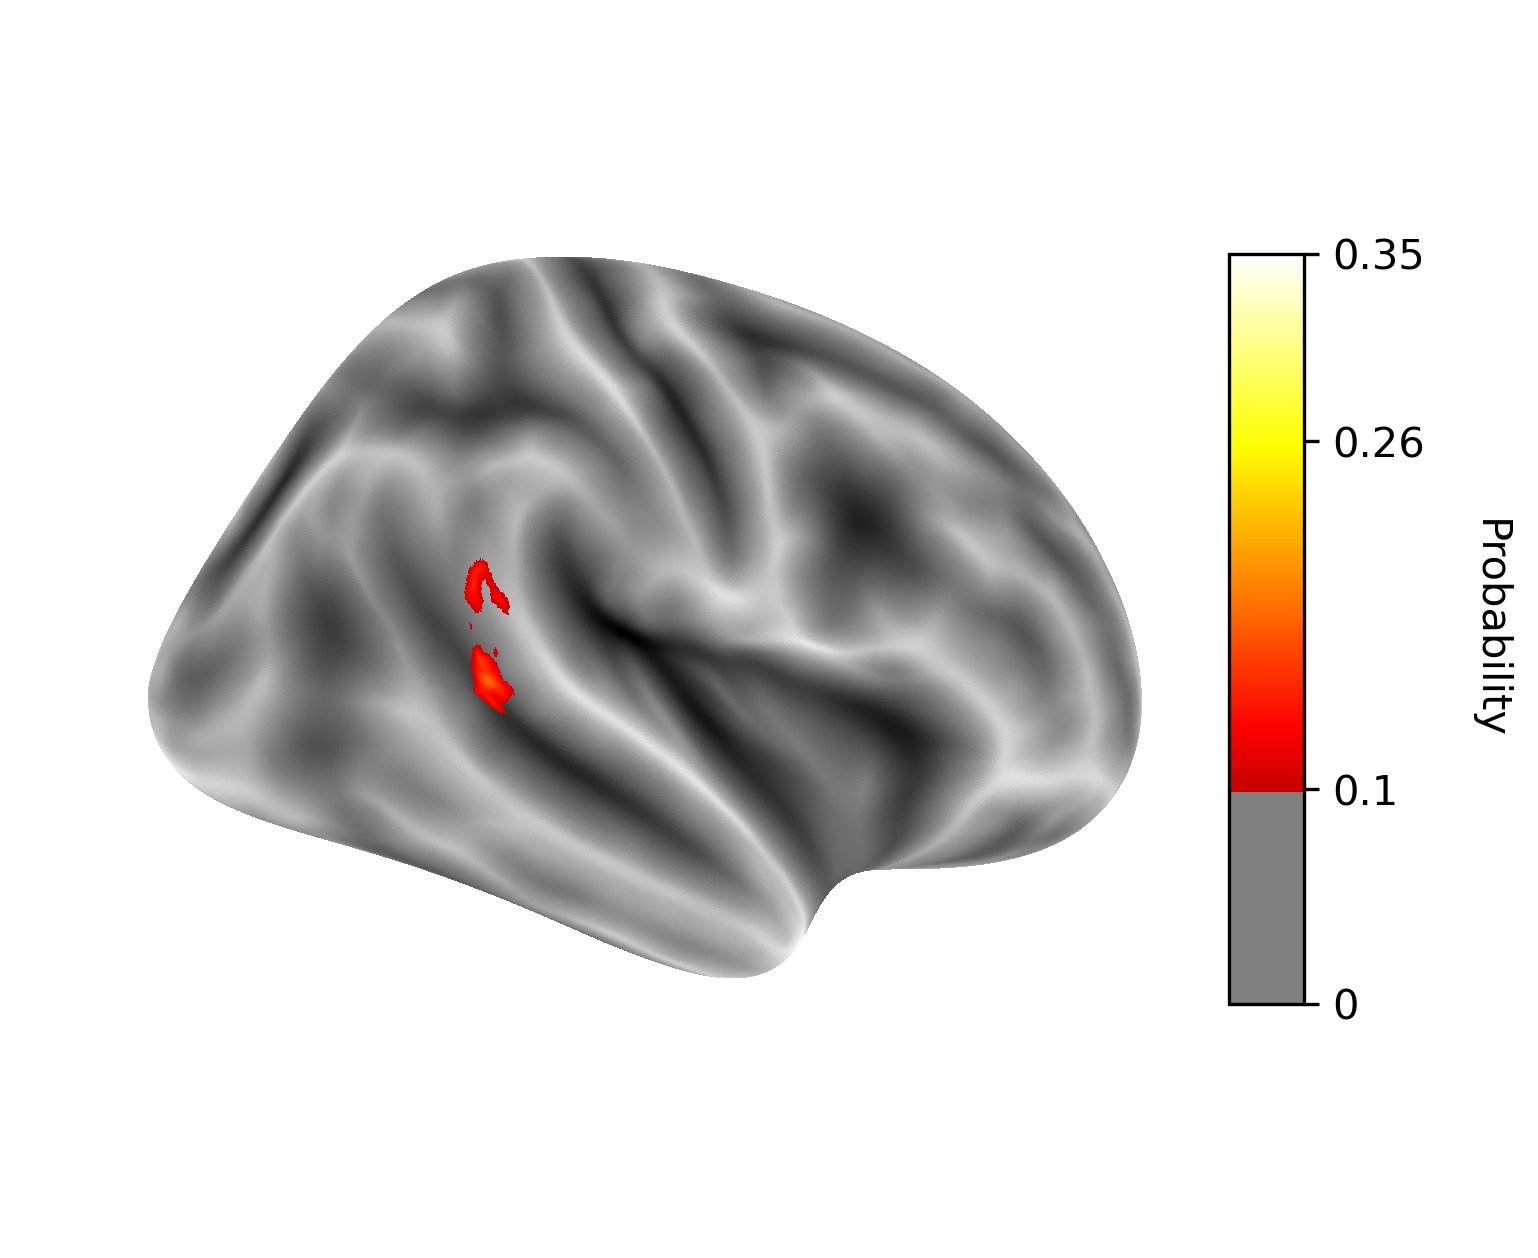
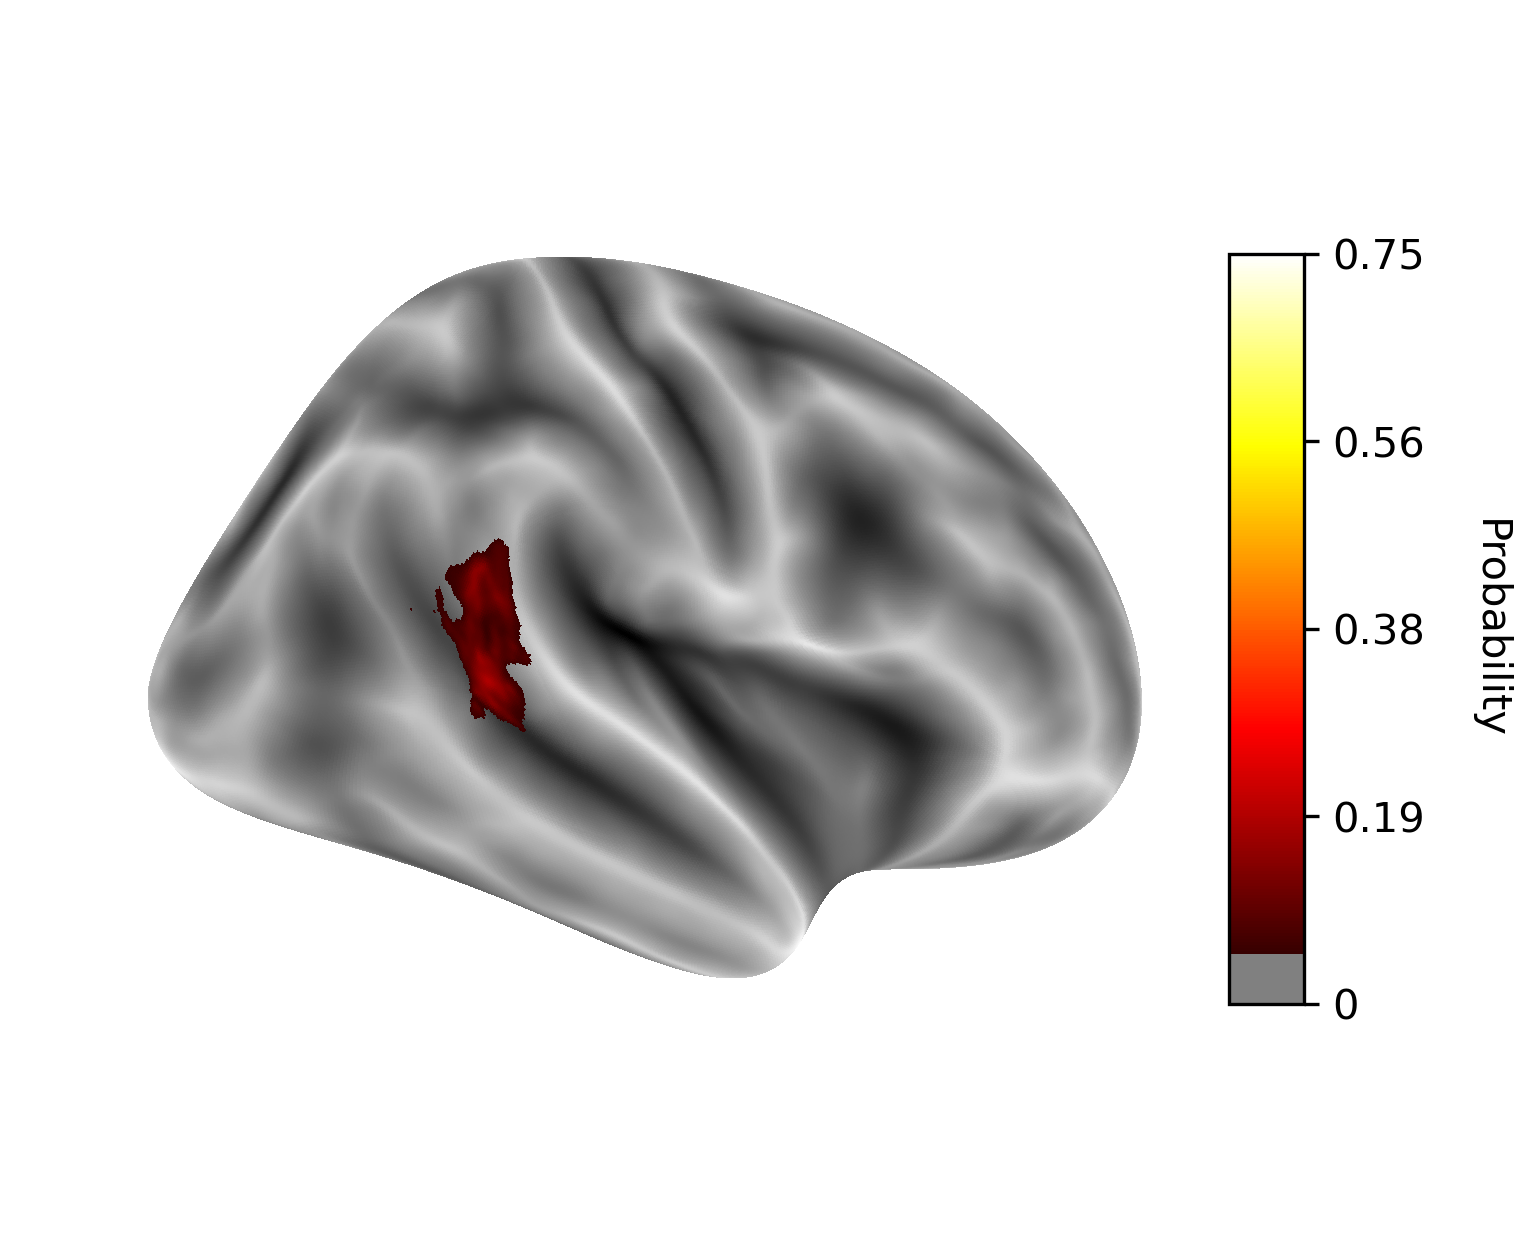
plots

diff --git a/code/group_parcel_probability.py b/code/group_parcel_probability.py
@@ -55,38 +55,40 @@ class GroupParcelProbability:
             mesh_type="inflated",
         )
         
-    def plot_surface(self, img, threshold=0.1, cmap='hot', ylabel='Probability', filename_suffix='surface_right'):
+    def plot_surface(self, img, threshold=0.1, cmap='hot', ylabel='Probability', filename_suffix=''):
         """Plot the image on the right lateral surface"""
         print(f'Creating surface plot for {ylabel.lower()} (right hemisphere)...')
         surf_img, fsaverage_meshes, fsaverage_sulcal = vol2surf(img)  # Ensure img is in the correct format for surface plotting
 
-        # Plot right lateral surface
-        fig = plot_surf_stat_map(
-            stat_map=surf_img,
-            surf_mesh=fsaverage_meshes["inflated"],
-            hemi='right',
-            threshold=threshold,
-            bg_map=fsaverage_sulcal,
-            darkness=None,
-            cmap=cmap,
-            vmax=img.get_fdata().max() if ylabel == 'Probability' else None
-        )
-        
-        # Add colorbar label
-        cbar = fig.axes[-1]
-        cbar.set_ylabel(ylabel, rotation=270, labelpad=20)
-        
-        # Make background transparent
-        fig.patch.set_alpha(0)
-        for ax in fig.axes:
-            ax.patch.set_alpha(0)
-        
-        # Save the plot
-        plot_path = f'{self.out_path}/{self.parcel_name}_{filename_suffix}.png'
-        fig.savefig(plot_path, transparent=True, dpi=300, bbox_inches='tight')
-        plt.close(fig)
-        
-        print(f'Saved surface plot: {plot_path}')
+        for hemi in ['left', 'right']:
+            out_suffix = filename_suffix + f'_surface_{hemi}'
+            # Plot right lateral surface
+            fig = plot_surf_stat_map(
+                stat_map=surf_img,
+                surf_mesh=fsaverage_meshes["inflated"],
+                hemi=hemi,
+                threshold=threshold,
+                bg_map=fsaverage_sulcal,
+                darkness=None,
+                cmap=cmap,
+                vmax=0.75#img.get_fdata().max() if ylabel == 'Probability' else None
+            )
+            
+            # Add colorbar label
+            cbar = fig.axes[-1]
+            cbar.set_ylabel(ylabel, rotation=270, labelpad=20)
+            
+            # Make background transparent
+            fig.patch.set_alpha(0)
+            for ax in fig.axes:
+                ax.patch.set_alpha(0)
+            
+            # Save the plot
+            plot_path = f'{self.out_path}/{self.parcel_name}{out_suffix}.png'
+            fig.savefig(plot_path, transparent=True, dpi=300, bbox_inches='tight')
+            plt.close(fig)
+            
+            print(f'Saved surface plot: {plot_path}')
 
 
     def load_parcel_masks(self):
@@ -129,17 +131,17 @@ class GroupParcelProbability:
         prob_img = nib.Nifti1Image(probability_map, affine)
         thresh_img = nib.Nifti1Image(thresholded_mask, affine)
         
-        # Save results
-        nib.save(prob_img, f'{self.out_path}/{self.parcel_name}_probability.nii.gz')
-        nib.save(thresh_img, f'{self.out_path}/{self.parcel_name}_mask-thresholded.nii.gz')
+        # # Save results
+        # nib.save(prob_img, f'{self.out_path}/{self.parcel_name}_probability.nii.gz')
+        # nib.save(thresh_img, f'{self.out_path}/{self.parcel_name}_mask-thresholded.nii.gz')
         
         print(f'Saved probability map and thresholded mask for {self.parcel_name}')
         print(f'Probability map range: {probability_map.min():.3f} - {probability_map.max():.3f}')
         print(f'Number of voxels in thresholded mask: {thresholded_mask.sum()}')
         
         # Create surface plot
-        self.plot_surface(prob_img)
-        self.plot_surface(thresh_img, threshold=0.5, cmap='Reds', ylabel='Mask', filename_suffix='mask_surface_right')
+        self.plot_surface(prob_img, threshold=0.05)
+        # self.plot_surface(thresh_img, threshold=0.5, cmap='Reds', ylabel='Mask', filename_suffix='_mask')
 
 
 def main():
